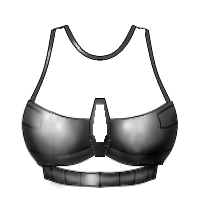
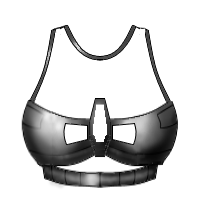
Futuristic item upgrades
First commit. Roadmap:
-Chastity bra will be a diagnostic item (mostly fluff)
-Chastity belt will have several functions to aid in training
-
-Futuristic items in general will give an error sound effect when a user who cannot unlock the item attempts to access the controls

Changes included in this commit:
-Bra implementation. Now displays heart rate and also a little heart icon when the user is orgasming or when the user is being aroused by an item action
-CommonDraw updated to pass G for size-based modifications
-Dialog added
-Assets added to futuristic bra to allow recoloring the text

Changed region(s): [[0.3, 0.6, 0.45, 0.75], [0.54, 0.6, 0.69, 0.72]]

diff --git a/BondageClub/Screens/Inventory/ItemBreast/FuturisticBra/FuturisticBra.js b/BondageClub/Screens/Inventory/ItemBreast/FuturisticBra/FuturisticBra.js
@@ -1,0 +1,208 @@
+"use strict";
+
+var small_yoffset = -5
+var normal_yoffset = 0
+var large_yoffset = 4
+var xlarge_yoffset = 7
+
+// Loads the item extension properties
+function InventoryItemBreastFuturisticBraLoad() {
+	if (DialogFocusItem.Property == null) DialogFocusItem.Property = { HeartRate: 0, HeartIcon: false };
+	if (DialogFocusItem.Property.HeartRate == null) DialogFocusItem.Property.HeartRate = 0;
+	if (DialogFocusItem.Property.HeartIcon == null) DialogFocusItem.Property.HeartIcon = false;
+	
+}
+
+function InventoryItemBreastFuturisticBraUpdate(C) {
+	var current_bpm = 65
+	var current_breathing = "Low"
+	var current_temp = 37
+	
+	
+	
+	if (C.MemberNumber) {
+		current_bpm += C.MemberNumber % 20 // 'Pseudo random baseline'
+	}
+	
+	if (C.ArousalSettings && C.ArousalSettings.Progress > 0) {
+		var Progress = C.ArousalSettings.Progress
+		current_bpm += Math.floor(Progress*0.35)
+		current_temp += Math.floor(Progress*0.1)/10
+		if ((C.ArousalSettings.OrgasmStage && C.ArousalSettings.OrgasmStage > 0) || (C.ArousalSettings.ProgressTimer && C.ArousalSettings.ProgressTimer > 1)) {
+			current_breathing = "Action"
+			current_bpm += 10
+			current_temp += 0.5
+		} else if (C.ArousalSettings.Progress > 10) {
+			if (C.ArousalSettings.Progress > 90) {
+				current_breathing = "High"
+			} else {
+				current_breathing = "Med"
+			}
+		}
+		
+	}
+	return {bpm: current_bpm, breathing: current_breathing, temp: current_temp}
+}
+
+// Draw the item extension screen
+function InventoryItemBreastFuturisticBraDraw() {
+	DrawRect(1387, 225, 225, 275, "white");
+	DrawImageResize("Assets/" + DialogFocusItem.Asset.Group.Family + "/" + DialogFocusItem.Asset.Group.Name + "/Preview/" + DialogFocusItem.Asset.Name + ".png", 1389, 227, 221, 221);
+	DrawTextFit(DialogFocusItem.Asset.Description, 1500, 475, 221, "black");
+	
+	var C = (Player.FocusGroup != null) ? Player : CurrentCharacter;
+	
+	var update = InventoryItemBreastFuturisticBraUpdate(C)
+	var current_bpm = update.bpm
+	var current_breathing = update.breathing
+	var current_temp = update.temp
+		
+	
+	DrawText(DialogFind(Player, "FuturisticBraPlayerDesc") + " " + C.MemberNumber, 1500, 600, "White", "Gray");
+	DrawText(DialogFind(Player, "FuturisticBraPlayerHeartRate") + " " + current_bpm + " " + DialogFind(Player, "FuturisticBraPlayerHeartRateBPM"), 1500, 680, "White", "Gray");
+	DrawText(DialogFind(Player, "FuturisticBraPlayerTemp") + " " + current_temp + DialogFind(Player, "FuturisticBraPlayerTempC"), 1500, 730, "White", "Gray");
+	DrawText(DialogFind(Player, "FuturisticBraPlayerBreathing") + " " + DialogFind(Player, "FuturisticBraPlayerBreathing" + current_breathing), 1500, 780, "White", "Gray");
+	DrawText(DialogFind(Player, "FuturisticBraPlayerTracking"), 1500, 830, "White", "Gray");
+	
+	
+	
+	/*
+	DrawText(DialogFind(Player, "Intensity" + DialogFocusItem.Property.Intensity.toString()).replace("Item", DialogFocusItem.Asset.Description), 1500, 600, "White", "Gray");
+	if (DialogFocusItem.Property.Intensity > 0) DrawButton(1200, 650, 200, 55, DialogFind(Player, "Low"), "White");
+	if (DialogFocusItem.Property.Intensity < 1 || DialogFocusItem.Property.Intensity > 1) DrawButton(1550, 650, 200, 55, DialogFind(Player, "Medium"), "White");
+	if (DialogFocusItem.Property.Intensity < 2) DrawButton(1375, 710, 200, 55, DialogFind(Player, "High"), "White");
+	if (CurrentScreen == "ChatRoom") DrawButton(1325, 800, 64, 64, "", "White", DialogFocusItem.Property.ShowText ? "Icons/Checked.png" : "");
+	if (CurrentScreen == "ChatRoom") DrawText(DialogFind(Player, "ShockCollarShowChat"), 1570, 833, "White", "Gray");
+	DrawButton(1375, 900, 200, 55, DialogFind(Player, "TriggerShock"), "White");*/
+}
+
+// Catches the item extension clicks
+function InventoryItemBreastFuturisticBraClick() {
+	if (MouseIn(1885, 25, 90, 90)) DialogFocusItem = null;
+	
+	
+}
+
+/*
+
+
+
+
+// Sets the shock collar intensity
+function InventoryItemBreastFuturisticBraSetIntensity(Modifier) {
+	
+	// Gets the current item and character
+	var C = (Player.FocusGroup != null) ? Player : CurrentCharacter;
+	if ((CurrentScreen == "ChatRoom") || (DialogFocusItem == null)) {
+		DialogFocusItem = InventoryGet(C, C.FocusGroup.Name);
+		InventoryItemBreastFuturisticBraLoad();
+	}
+
+	DialogFocusItem.Property.Intensity = DialogFocusItem.Property.Intensity + Modifier;
+	if (DialogFocusItem.Property.ShowText) {
+		var Dictionary = [];
+		Dictionary.push({Tag: "DestinationCharacter", Text: C.Name, MemberNumber: C.MemberNumber});
+		Dictionary.push({Tag: "SourceCharacter", Text: Player.Name, MemberNumber: Player.MemberNumber});
+		Dictionary.push({Tag: "AssetName", AssetName: DialogFocusItem.Asset.Name});
+		ChatRoomPublishCustomAction("ShockCollarSet" + DialogFocusItem.Property.Intensity, true, Dictionary);
+	}
+	else
+		DialogLeave();
+		
+}
+
+// Trigger a shock from the dialog menu
+function InventoryItemBreastFuturisticBraTrigger() { 
+	// Gets the current item and character
+	var C = (Player.FocusGroup != null) ? Player : CurrentCharacter;
+	if ((CurrentScreen == "ChatRoom") || (DialogFocusItem == null)) {
+		DialogFocusItem = InventoryGet(C, C.FocusGroup.Name);
+		InventoryItemBreastFuturisticBraLoad();
+	}
+
+	var Dictionary = [];
+	Dictionary.push({ Tag: "DestinationCharacterName", Text: C.Name, MemberNumber: C.MemberNumber });
+	Dictionary.push({ Tag: "DestinationCharacter", Text: C.Name, MemberNumber: C.MemberNumber });
+	Dictionary.push({ Tag: "SourceCharacter", Text: Player.Name, MemberNumber: Player.MemberNumber });
+	Dictionary.push({Tag: "AssetName", AssetName: DialogFocusItem.Asset.Name});
+	Dictionary.push({ Tag: "ActivityName", Text: "ShockItem" });
+	Dictionary.push({ Tag: "ActivityGroup", Text: DialogFocusItem.Asset.Group.Name });
+	Dictionary.push({ AssetName: DialogFocusItem.Asset.Name });
+	Dictionary.push({ AssetGroupName: DialogFocusItem.Asset.Group.Name });
+		
+	ChatRoomPublishCustomAction("TriggerShock" + DialogFocusItem.Property.Intensity, true, Dictionary);
+		
+	if (C.ID == Player.ID) {
+		// The Player shocks herself
+		ActivityArousalItem(C, C, DialogFocusItem.Asset);
+	}
+	
+    CharacterSetFacialExpression(C, "Eyebrows", "Soft", 10);
+    CharacterSetFacialExpression(C, "Blush", "Soft", 15);
+    CharacterSetFacialExpression(C, "Eyes", "Closed", 5);
+}
+
+
+
+function InventoryItemBreastFuturisticBraDynamicAudio(data) { 
+	var Modifier = parseInt(data.Content.substr(data.Content.length - 1));
+	if (isNaN(Modifier)) Modifier = 0;
+	return ["Shocks", Modifier * 3];
+}
+*/
+
+// Drawing function for the text on the bra
+function AssetsItemBreastFuturisticBraAfterDraw({
+    C, A, X, Y, Property, drawCanvas, drawCanvasBlink, AlphaMasks, L, G, Color
+}) { 
+	if (L === "_Text") {
+		
+		var offset = normal_yoffset
+		if (G == "_Large") offset = large_yoffset
+		if (G == "_XLarge") offset = xlarge_yoffset
+		if (G == "_Small") offset = small_yoffset
+		
+		// We set up a canvas
+		const Height = 50;
+		const Width = 55;
+		const TempCanvas = AnimationGenerateTempCanvas(C, A, Width, Height);
+    	
+		// We draw the desired info on that canvas
+		let context = TempCanvas.getContext('2d');
+		context.font = "bold 14px sansserif";
+		context.fillStyle = "Black";
+		context.textAlign = "center";
+		context.fillText((Property && Property.HeartRate) ? Property.HeartRate : "--", Width / 2 + 1, Width / 2 - 1, Width);
+		context.fillText((Property && Property.HeartRate) ? Property.HeartRate : "--", Width / 2 - 1, Width / 2 + 1, Width);
+		context.fillText((Property && Property.HeartRate) ? Property.HeartRate : "--", Width / 2 + 1, Width / 2 + 1, Width);
+		context.fillText((Property && Property.HeartRate) ? Property.HeartRate : "--", Width / 2 - 1, Width / 2 - 1, Width);
+    		
+		context.font = "bold 14px sansserif";
+		context.fillStyle = Color;
+		context.textAlign = "center";
+		context.fillText((Property && Property.HeartRate) ? Property.HeartRate : "--", Width / 2, Width / 2, Width);
+    
+		// We print the canvas to the character based on the asset position
+		drawCanvas(TempCanvas, X + 47, Y + 103.5 + offset, AlphaMasks);
+		
+		drawCanvasBlink(TempCanvas, X + 47, Y + 103.5 + offset, AlphaMasks);
+	}
+}
+
+// Update data
+function AssetsItemBreastFuturisticBraScriptDraw(data) {
+	var persistentData = data.PersistentData();
+	var property = (data.Item.Property = data.Item.Property || {});
+	if (typeof persistentData.UpdateTime !== "number") persistentData.UpdateTime = CommonTime() + 4000;
+
+	if (persistentData.UpdateTime < CommonTime()) {
+		var update = InventoryItemBreastFuturisticBraUpdate(data.C)
+		property.HeartRate = update.bpm;
+		property.Type = (update.breathing == "Action") ? "Heart" : null;
+		
+		var timeToNextRefresh = 1100;
+		persistentData.UpdateTime = CommonTime() + timeToNextRefresh;
+		AnimationRequestRefreshRate(data.C, 5000 - timeToNextRefresh);
+		AnimationRequestDraw(data.C);
+	}
+}

diff --git a/BondageClub/Assets/Female3DCG/Female3DCG.js b/BondageClub/Assets/Female3DCG/Female3DCG.js
@@ -1614,11 +1614,12 @@ var AssetFemale3DCG = [
 		Asset: [
 			{ Name: "MetalChastityBra", Fetish: ["Metal"], Value: 60, Difficulty: 50, Time: 15, AllowLock: true, Audio: "CuffsMetal", Prerequisite: "AccessBreast", Hide: ["ItemNipples", "ItemNipplesPiercings"], Effect: ["BreastChaste"], Block: ["ItemNipples", "ItemNipplesPiercings"], ExpressionTrigger: [{ Name: "Soft", Group: "Eyebrows", Timer: 10 }] },
 			{ Name: "PolishedChastityBra", Fetish: ["Metal"], Value: 100, Difficulty: 50, Time: 15, AllowLock: true, Audio: "CuffsMetal", Prerequisite: "AccessBreast", Hide: ["ItemNipples", "ItemNipplesPiercings"], Effect: ["BreastChaste"], Block: ["ItemNipples", "ItemNipplesPiercings"], ExpressionTrigger: [{ Name: "Soft", Group: "Eyebrows", Timer: 10 }] },
-			{ Name: "FuturisticBra", Fetish: ["Metal"], Value: 120, Difficulty: 50, Time: 10, AllowLock: true, DefaultColor: ["#50913C", "#889FA7", "Default"], Audio: "CuffsMetal", Prerequisite: "AccessBreast", Hide: ["ItemNipples", "ItemNipplesPiercings"], Effect: ["BreastChaste"], Block: ["ItemNipples", "ItemNipplesPiercings"], ExpressionTrigger: [{ Name: "Soft", Group: "Eyebrows", Timer: 10 }],
+			{ Name: "FuturisticBra", Fetish: ["Metal"], Value: 120, Difficulty: 50, Time: 10, AllowLock: true, DefaultColor: ["#50913C", "#FFFFFF", "#889FA7", "Default"], AllowType: ["", "Heart"], Audio: "CuffsMetal", Prerequisite: "AccessBreast", Hide: ["ItemNipples", "ItemNipplesPiercings"], Effect: ["BreastChaste"], Block: ["ItemNipples", "ItemNipplesPiercings"], ExpressionTrigger: [{ Name: "Soft", Group: "Eyebrows", Timer: 10 }], Extended: true, AlwaysExtend: true, DynamicAfterDraw: true,  DynamicScriptDraw: true,
 				Layer: [
-					{ Name: "Display" },
-					{ Name: "Mesh" },
-					{ Name: "Bra" },
+					{ Name: "Display", AllowColorize: true , HasType: false},
+					{ Name: "Text" , AllowColorize: true , AllowTypes: ["", "Heart"]},
+					{ Name: "Mesh" , AllowColorize: true , HasType: false},
+					{ Name: "Bra" , AllowColorize: true , HasType: false},
 				]
 			},
 			{
@@ -2879,7 +2880,7 @@ var AssetFemale3DCG = [
 		Asset: [
 			{ Name: "ClothBlindfold", Value: 15, Time: 5, DefaultColor: "#A0A0A0", Hide: ["Glasses"], Effect: ["BlindLight", "Prone"] },
 			{ Name: "LeatherBlindfold", Fetish: ["Leather"], Value: 30, Time: 5, AllowLock: true, DefaultColor: "#404040", Hide: ["Glasses"], Effect: ["BlindNormal", "Prone"] },
-			{ Name: "InteractiveVisor", Fetish: ["Metal"], BuyGroup: "FuturisticVisor", Value: 50, Time: 5, AllowLock: true, Hide: ["ItemNoseNoseRing", "MaskFuturisticVisor"], Effect: ["Prone"], AllowEffect: ["BlindNormal", "BlindHeavy", "BlindLight"], AllowType: ["LightTint", "HeavyTint", "Blind"], Extended: true },
+			{ Name: "InteractiveVisor", Fetish: ["Metal"], BuyGroup: "FuturisticVisor", Value: 50, Time: 5, AllowLock: true, Hide: ["ItemNoseNoseRing", "MaskFuturisticVisor"], Effect: ["Prone"], AllowEffect: ["BlindNormal", "BlindHeavy", "BlindLight"], AllowType: ["LightTint", "HeavyTint", "Blind"], Extended: true, AlwaysExtend: true },
 			{ Name: "LeatherSlimMask", Fetish: ["Leather"], Value: 70, Difficulty: 50, Time: 15, AllowLock: true, DefaultColor: "#555555", Prerequisite: ["NotHogtied"], Hide: ["Glasses", "ItemMouth", "ItemMouth2", "ItemMouth3"], Effect: ["BlindHeavy", "Prone", "GagLight", "BlockMouth"], Block: ["ItemMouth", "ItemMouth2", "ItemMouth3", "ItemEars", "ItemNose"] },
 			{ Name: "LeatherSlimMaskOpenMouth", Fetish: ["Leather"], Value: 70, Difficulty: 50, Time: 15, AllowLock: true, DefaultColor: "#555555", Prerequisite: ["NotHogtied"], Hide: ["Glasses"], Effect: ["BlindHeavy", "Prone"], Block: ["ItemEars", "ItemNose"] },
 			{ Name: "LeatherSlimMaskOpenEyes", Fetish: ["Leather"], Value: 70, Difficulty: 50, Time: 15, AllowLock: true, DefaultColor: "#555555", Prerequisite: ["NotHogtied"], Hide: ["ItemMouth", "ItemMouth2", "ItemMouth3"], Effect: ["GagLight", "BlockMouth"], Block: ["ItemMouth", "ItemMouth2", "ItemMouth3", "ItemEars", "ItemNose"] },

diff --git a/BondageClub/Scripts/CommonDraw.js b/BondageClub/Scripts/CommonDraw.js
@@ -178,7 +178,7 @@ function CommonDrawAppearanceBuild(C, {
 		// Watch out for object references.
 		if (A.DynamicBeforeDraw && (!Player.GhostList || Player.GhostList.indexOf(C.MemberNumber) == -1)) {
 			const DrawingData = {
-				C, X, Y, CA, Color, Property, A, AG, L, Pose, LayerType, BlinkExpression, drawCanvas, drawCanvasBlink, AlphaMasks, PersistentData: () => AnimationPersistentDataGet(C, A)
+				C, X, Y, CA, Color, Property, A, G, AG, L, Pose, LayerType, BlinkExpression, drawCanvas, drawCanvasBlink, AlphaMasks, PersistentData: () => AnimationPersistentDataGet(C, A)
 			};
 			const OverridenData = window["Assets" + A.Group.Name + A.Name + "BeforeDraw"](DrawingData);
 			if (typeof OverridenData == "object") {
@@ -225,6 +225,10 @@ function CommonDrawAppearanceBuild(C, {
 			Color = Array.isArray(A.DefaultColor) ? A.DefaultColor[Layer.ColorIndex] : A.DefaultColor;
 		}
 		
+		if (AG.Name == "ItemBreast") {
+			var a = 1
+		}
+		
 		// Draw the item on the canvas (default or empty means no special color, # means apply a color, regular text means we apply that text)
 		if ((Color != null) && (Color.indexOf("#") == 0) && Layer.AllowColorize) {
 			drawImageColorize(
@@ -261,7 +265,7 @@ function CommonDrawAppearanceBuild(C, {
 		// Watch out for object references.
 		if (A.DynamicAfterDraw && (!Player.GhostList || Player.GhostList.indexOf(C.MemberNumber) == -1)) {
 			const DrawingData = {
-				C, X, Y, CA, Property, Color, A, AG, L, Pose, LayerType, BlinkExpression, drawCanvas, drawCanvasBlink, AlphaMasks, PersistentData: () => AnimationPersistentDataGet(C, A)
+				C, X, Y, CA, Property, Color, A, G, AG, L, Pose, LayerType, BlinkExpression, drawCanvas, drawCanvasBlink, AlphaMasks, PersistentData: () => AnimationPersistentDataGet(C, A)
 			};
 			window["Assets" + A.Group.Name + A.Name + "AfterDraw"](DrawingData);
 		}

diff --git a/BondageClub/index.html b/BondageClub/index.html
@@ -239,6 +239,7 @@
 <script src="Screens/Inventory/ItemPelvis/MetalChastityBelt/MetalChastityBelt.js"></script>
 <script src="Screens/Inventory/ItemPelvis/PolishedChastityBelt/PolishedChastityBelt.js"></script>
 <script src="Screens/Inventory/ItemPelvis/FuturisticChastityBelt/FuturisticChastityBelt.js"></script>
+<script src="Screens/Inventory/ItemBreast/FuturisticBra/FuturisticBra.js"></script>
 <script src="Screens/Inventory/ItemPelvis/OrnateChastityBelt/OrnateChastityBelt.js"></script>
 <script src="Screens/Inventory/ItemPelvis/StuddedChastityBelt/StuddedChastityBelt.js"></script>
 <script src="Screens/Inventory/ItemPelvis/HempRope/HempRope.js"></script>
